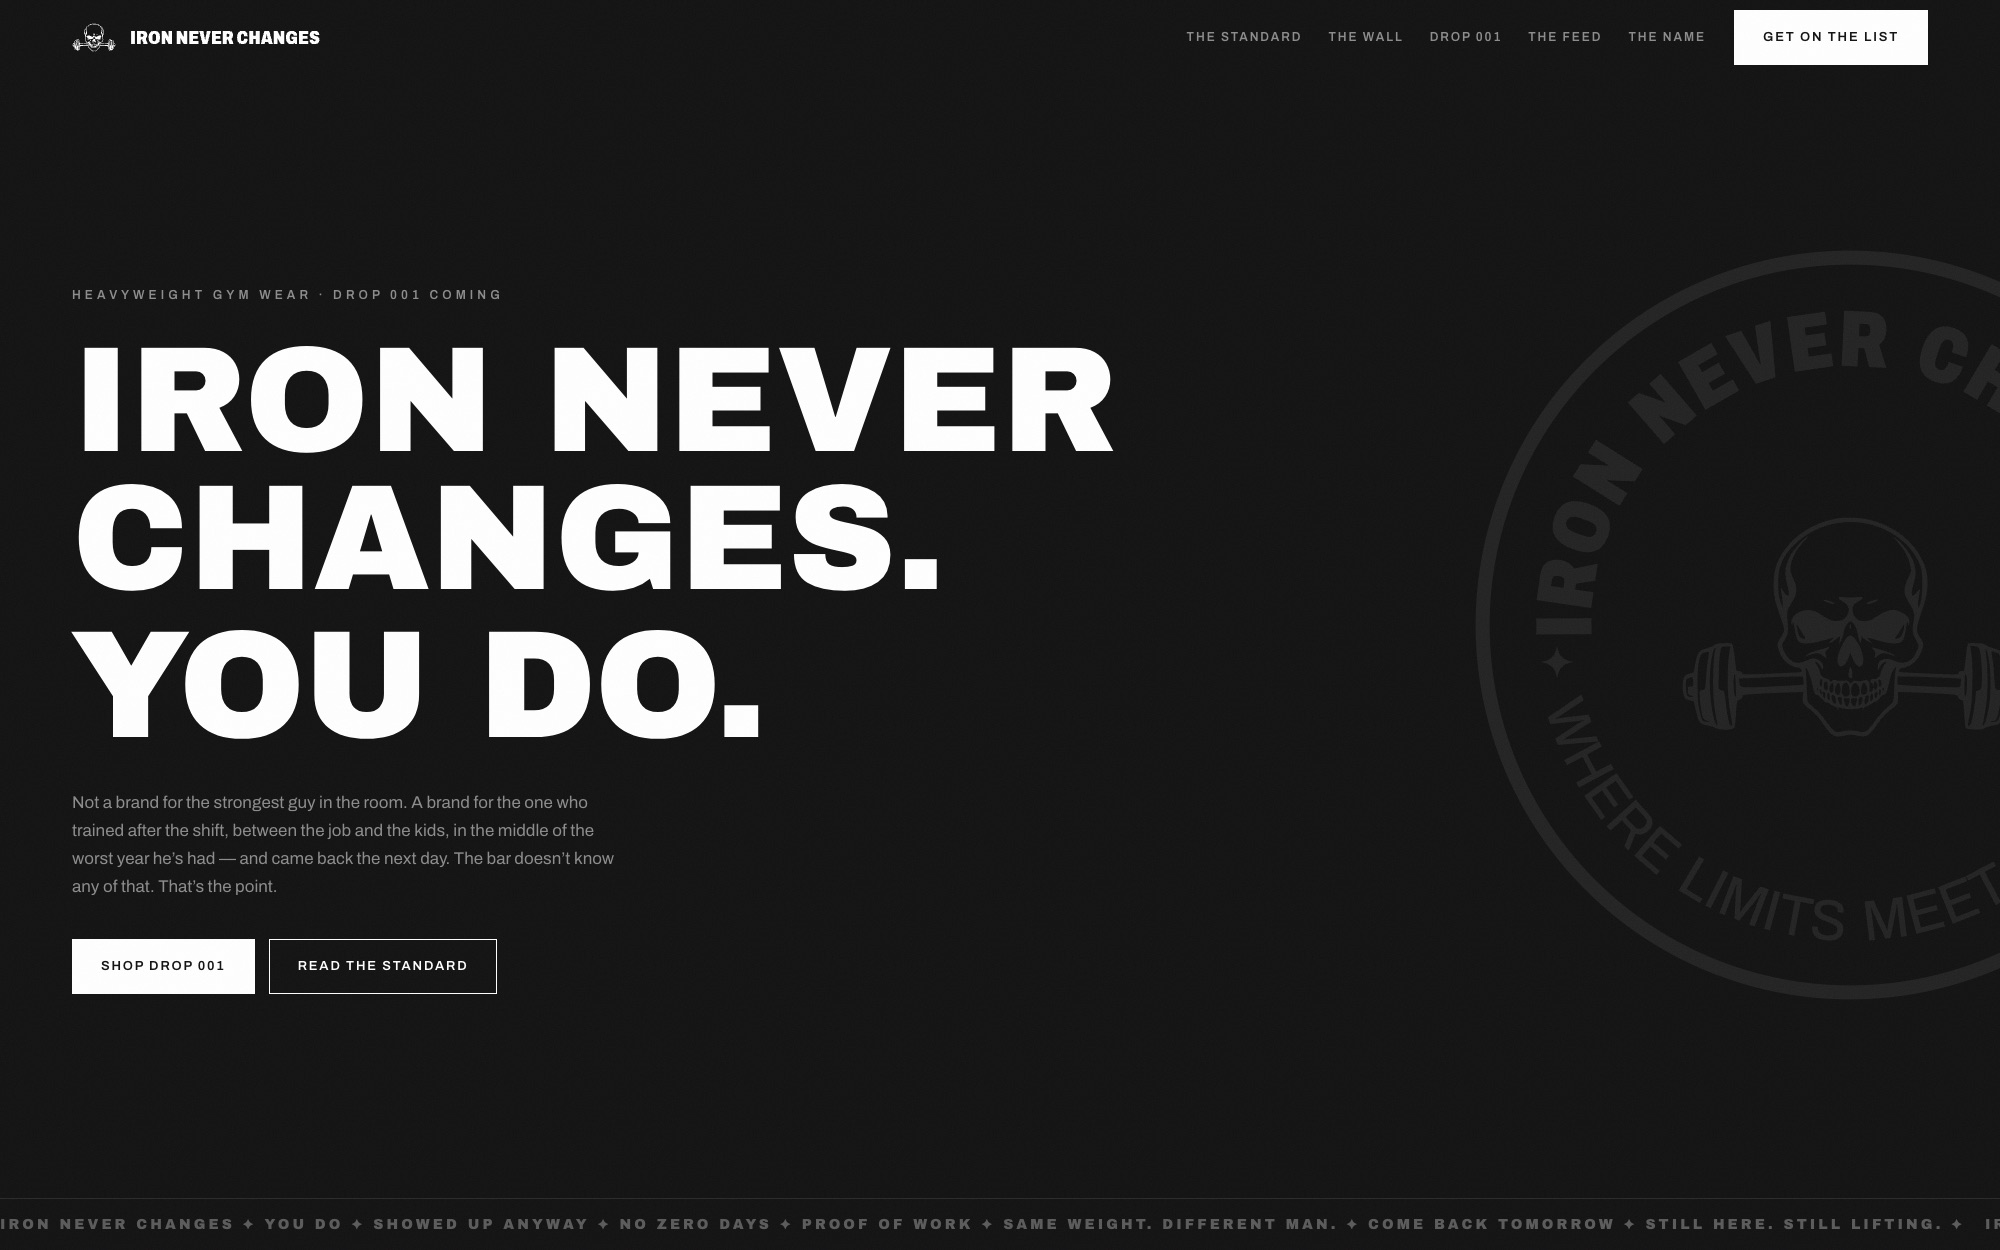
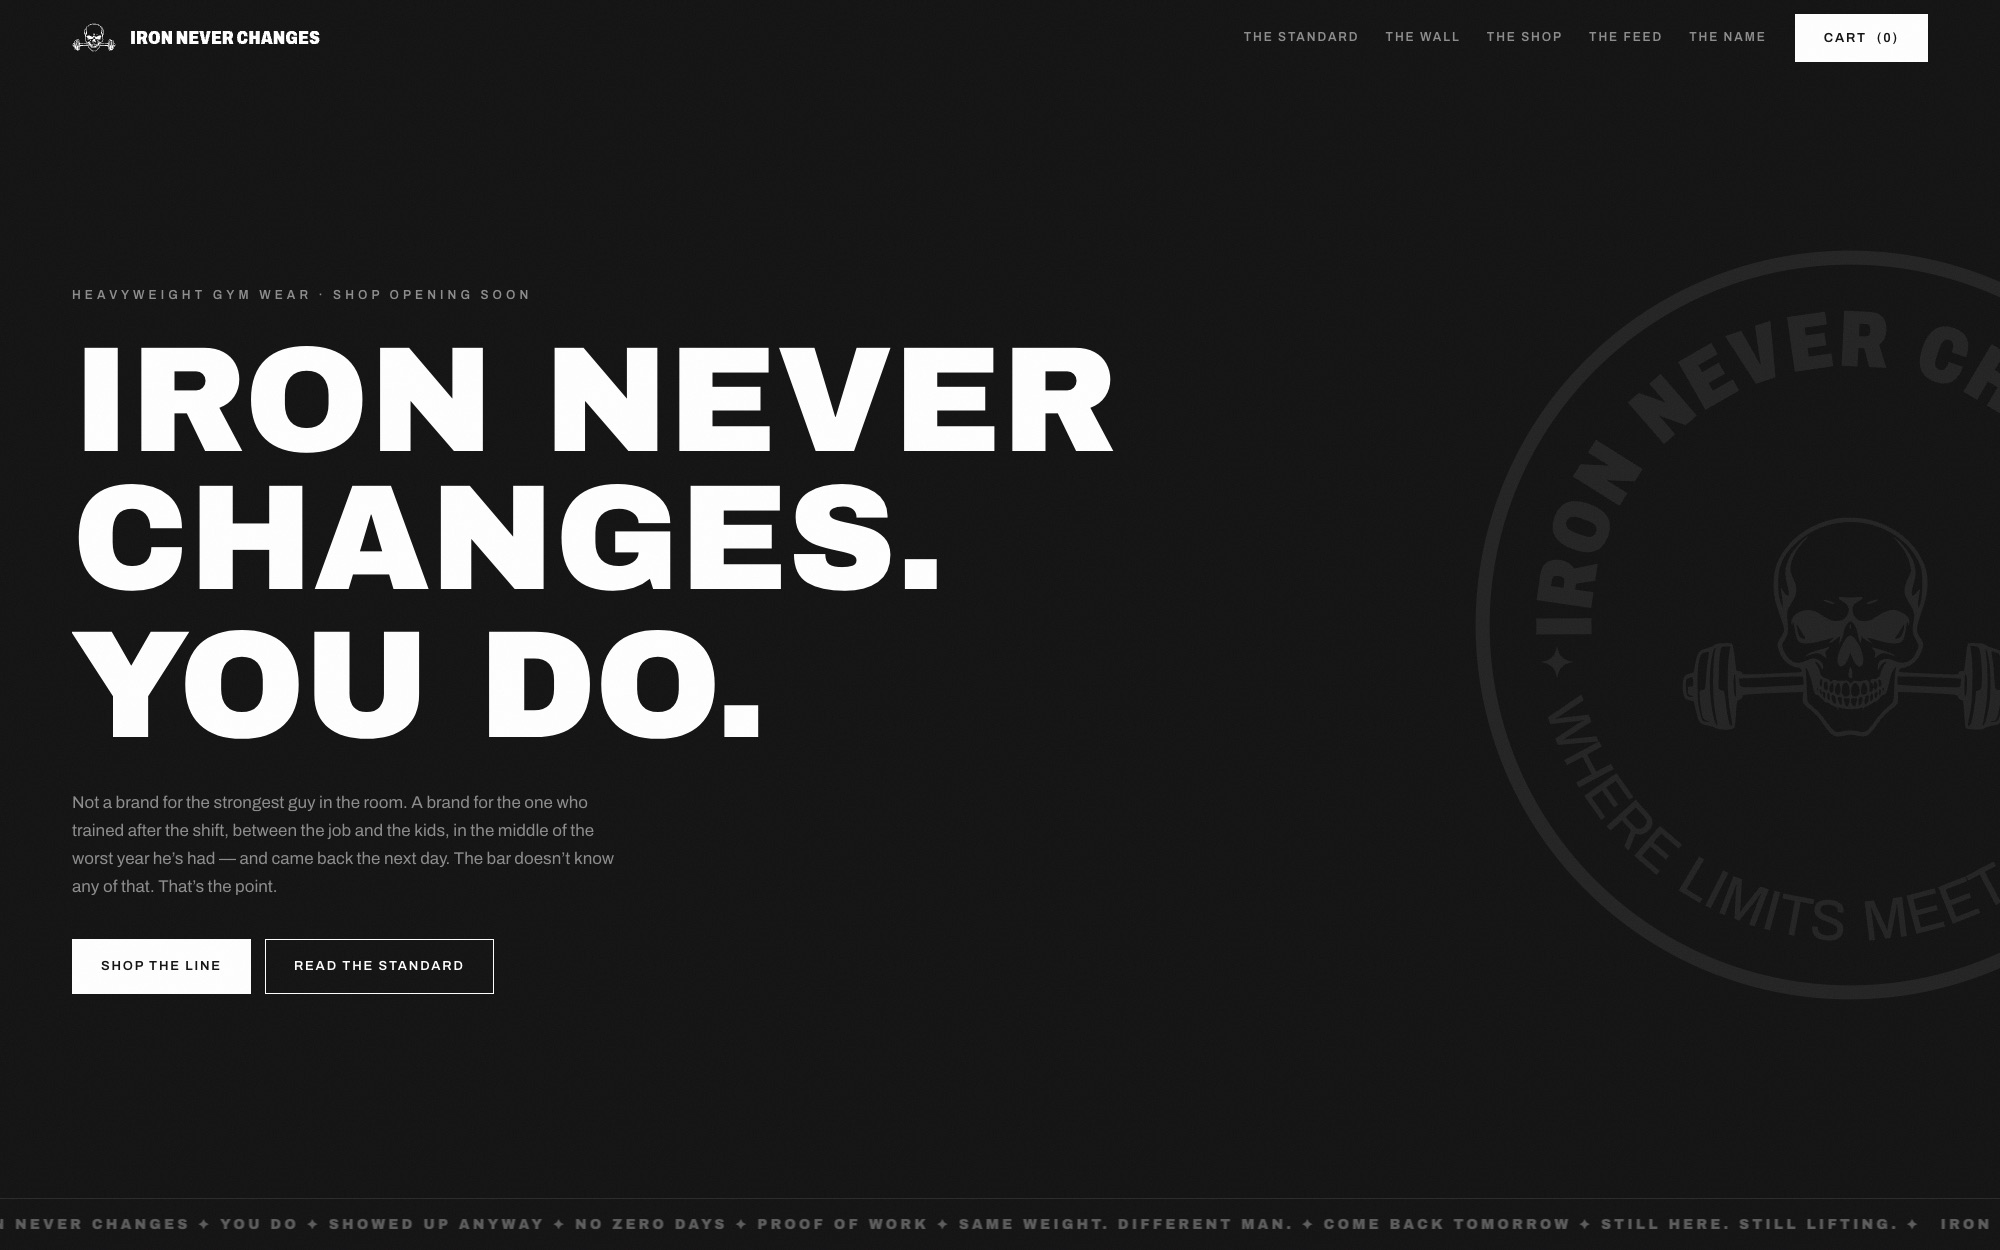
Draft 03 card: refresh screenshot and copy for the shop rework

diff --git a/index.html b/index.html
@@ -3006,7 +3006,7 @@ a.wk__card--next:hover,a.wk__card--next:focus-visible{
         </a>
         <span class="wk__meta">
           <span class="wk__client">Iron Never Changes</span>
-          <span class="wk__what">The first one off the board &mdash; a heavyweight gym-wear brand for everyday men, being built out for a real client now: an eight-shirt drop drawn as spec sheets, a slogan wall, and a manifesto that lights up as you scroll.</span>
+          <span class="wk__what">The first one off the board &mdash; a heavyweight gym-wear brand for everyday men, being built out for a real client now: an eight-shirt shop drawn as spec sheets with a working cart, a slogan wall, and a manifesto that lights up as you scroll.</span>
           <span class="wk__acts">
             <a class="btn btn--wire" href="https://iron-never-changes.vercel.app" target="_blank" rel="noopener">View live build</a>
             <a class="btn btn--ion" href="#contact" data-claim="a build like Iron Never Changes (apparel / gym brand)">Start yours</a>
